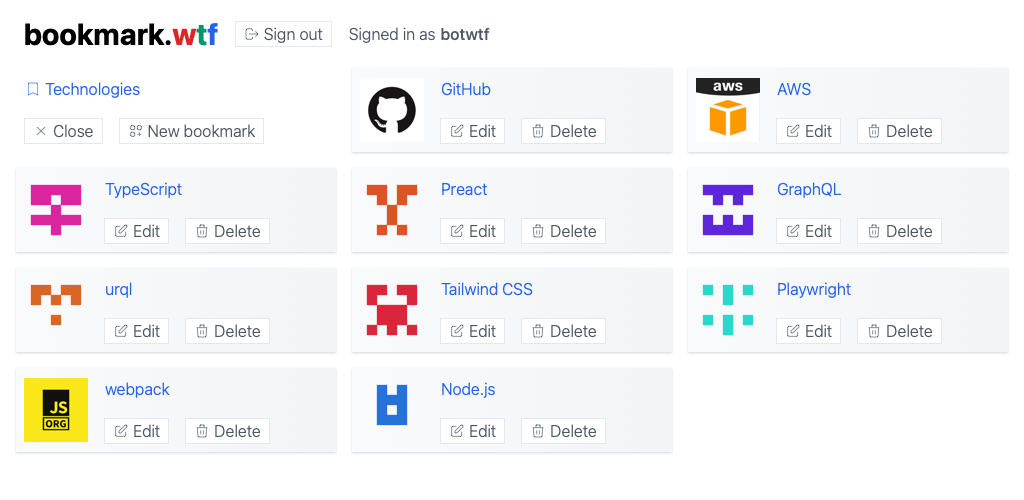
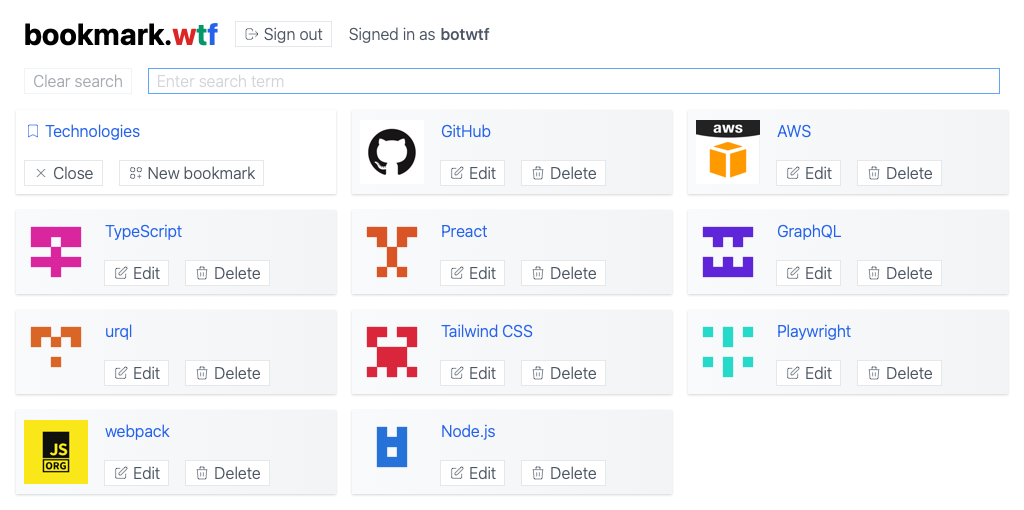
Implement bookmark search

diff --git a/src/components/authorized-page.tsx b/src/components/authorized-page.tsx
@@ -1,4 +1,4 @@
-import {JSX, h} from 'preact';
+import {Fragment, JSX, h} from 'preact';
 import {AuthorizedAuthStore} from '../hooks/use-auth-store';
 import {useGistName} from '../hooks/use-gist-name';
 import {useUserReceiver} from '../hooks/use-user-receiver';
@@ -6,6 +6,7 @@ import {AuthorizedTopbar} from './authorized-topbar';
 import {BookmarkList} from './bookmark-list';
 import {CollectionList} from './collection-list';
 import {Page} from './page';
+import {SearchForm} from './search-form';
 
 export interface AuthorizedPageProps {
   readonly authStore: AuthorizedAuthStore;
@@ -25,13 +26,17 @@ export function AuthorizedPage({authStore}: AuthorizedPageProps): JSX.Element {
       <AuthorizedTopbar authStore={authStore} userReceiver={userReceiver} />
 
       {gistName ? (
-        userReceiver.state === 'successful' && (
-          <BookmarkList
-            authStore={authStore}
-            userReceiver={userReceiver}
-            gistName={gistName}
-          />
-        )
+        <>
+          <SearchForm />
+
+          {userReceiver.state === 'successful' && (
+            <BookmarkList
+              authStore={authStore}
+              userReceiver={userReceiver}
+              gistName={gistName}
+            />
+          )}
+        </>
       ) : (
         <CollectionList authStore={authStore} />
       )}

diff --git a/src/components/bookmark-list.tsx b/src/components/bookmark-list.tsx
@@ -3,6 +3,7 @@ import {JSX, h} from 'preact';
 import {useMemo} from 'preact/hooks';
 import {AuthorizedAuthStore} from '../hooks/use-auth-store';
 import {useGistStore} from '../hooks/use-gist-store';
+import {useSearchTerm} from '../hooks/use-search-term';
 import {compareBookmarks} from '../models/compare-bookmarks';
 import {parseBookmark} from '../models/parse-bookmark';
 import {BookmarkControl} from './bookmark-control';
@@ -28,16 +29,21 @@ export function BookmarkList({
     throw gistStore.reason;
   }
 
+  const {regex} = useSearchTerm();
+
   const bookmarkFiles: readonly BookmarkFile[] = useMemo(
     () =>
       (gistStore.gist?.files ?? [])
-        .reduce((accu, {filename, text}) => {
+        .reduce((files, {filename, text}) => {
           const bookmark = parseBookmark(text);
 
-          return bookmark ? [{filename, bookmark}, ...accu] : accu;
+          return !bookmark ||
+            (regex && !regex.test(bookmark.title) && !regex.test(bookmark.url))
+            ? files
+            : [{filename, bookmark}, ...files];
         }, [] as BookmarkFile[])
         .sort((a, b) => compareBookmarks(a.bookmark, b.bookmark)),
-    [gistStore]
+    [gistStore, regex]
   );
 
   return gistStore.state === 'loading' ? (

diff --git a/src/components/search-form.tsx b/src/components/search-form.tsx
@@ -1,0 +1,35 @@
+import {JSX, h} from 'preact';
+import {useCallback, useContext} from 'preact/hooks';
+import {HistoryContext} from '../hooks/use-history';
+import {useSearchTerm} from '../hooks/use-search-term';
+import {changeSearchTerm} from '../utils/change-search-term';
+import {Button} from './button';
+import {Input} from './input';
+
+export function SearchForm(): JSX.Element {
+  const searchTerm = useSearchTerm();
+  const history = useContext(HistoryContext);
+
+  const search = useCallback((value: string) => {
+    history.replace(changeSearchTerm(value || undefined));
+  }, []);
+
+  const clearSearch = useCallback(() => {
+    history.replace(changeSearchTerm(undefined));
+  }, []);
+
+  return (
+    <div class="flex space-x-4 px-2">
+      <Button disabled={!searchTerm.value} onClick={clearSearch}>
+        Clear search
+      </Button>
+
+      <Input
+        value={searchTerm.value}
+        placeholder="Enter search term"
+        autoFocus
+        onInput={search}
+      />
+    </div>
+  );
+}

diff --git a/src/components/grid-item.tsx b/src/components/grid-item.tsx
@@ -1,5 +1,6 @@
 import {ComponentChildren, JSX, h} from 'preact';
 import {join} from '../utils/join';
+import {Text} from './text';
 
 export interface GridItemProps {
   readonly leftCol?: ComponentChildren;
@@ -13,7 +14,7 @@ export interface GridItemProps {
 export function GridItem({
   leftCol,
   row1,
-  row2,
+  row2 = <Text static>{'\u00A0'}</Text>,
   rightCol,
   background,
   highlight,
@@ -21,11 +22,11 @@ export function GridItem({
   return (
     <div
       class={join([
-        'flex space-x-4 p-2',
+        'flex space-x-4 p-2 shadow',
         background &&
           (highlight
-            ? 'bg-gradient-to-r from-gray-200 to-gray-300 shadow'
-            : 'bg-gradient-to-r from-gray-50 to-gray-100 shadow'),
+            ? 'bg-gradient-to-r from-gray-200 to-gray-300'
+            : 'bg-gradient-to-r from-gray-50 to-gray-100'),
       ])}
     >
       {leftCol && <div class="flex flex-shrink-0 items-center">{leftCol}</div>}

diff --git a/src/components/collection-item.tsx b/src/components/collection-item.tsx
@@ -5,6 +5,7 @@ import {ReadyGistsStore, UpdatingGistsStore} from '../hooks/use-gists-store';
 import {HistoryContext} from '../hooks/use-history';
 import {useTimer} from '../hooks/use-timer';
 import {useToggle} from '../hooks/use-toggle';
+import {changeGistName} from '../utils/change-gist-name';
 import {Theme} from '../utils/theme';
 import {Button} from './button';
 import {EditCollectionForm} from './edit-collection-form';
@@ -24,7 +25,7 @@ export function CollectionItem({
   const history = useContext(HistoryContext);
 
   const openCollection = useCallback(
-    () => history.push({type: 'pathname', pathname: '/' + gistName}),
+    () => history.push(changeGistName(gistName)),
     [gistName]
   );
 

diff --git a/src/components/bookmark-control.tsx b/src/components/bookmark-control.tsx
@@ -14,6 +14,7 @@ import {
 import {HistoryContext} from '../hooks/use-history';
 import {useToggle} from '../hooks/use-toggle';
 import {serializeBookmark} from '../models/serialize-bookmark';
+import {changeGistName} from '../utils/change-gist-name';
 import {createBookmarklet} from '../utils/create-bookmarklet';
 import {createRandomValue} from '../utils/create-random-value';
 import {Button} from './button';
@@ -35,7 +36,7 @@ export function BookmarkControl({
   const history = useContext(HistoryContext);
 
   const closeCollection = useCallback(
-    () => history.push({type: 'pathname', pathname: '/'}),
+    () => history.push(changeGistName(undefined)),
     []
   );
 

diff --git a/src/hooks/use-search-term.ts b/src/hooks/use-search-term.ts
@@ -1,0 +1,21 @@
+import {useContext, useMemo} from 'preact/hooks';
+import {HistoryContext} from './use-history';
+
+export interface SearchTerm {
+  readonly value: string;
+  readonly regex: RegExp | undefined;
+}
+
+export function useSearchTerm(): SearchTerm {
+  const history = useContext(HistoryContext);
+
+  return useMemo(() => {
+    const value = new URL(history.url).searchParams.get('search') ?? '';
+
+    const regex = value
+      ? new RegExp(value.split('').join('.?'), 'i')
+      : undefined;
+
+    return {value, regex};
+  }, [history]);
+}

diff --git a/src/hooks/use-history.ts b/src/hooks/use-history.ts
@@ -9,14 +9,14 @@ export interface History {
   replace(...changes: readonly [HistoryChange, ...HistoryChange[]]): void;
 }
 
-export type HistoryChange = PathnameChange | ParamChange;
+export type HistoryChange = PathnameHistoryChange | ParamHistoryChange;
 
-export interface PathnameChange {
+export interface PathnameHistoryChange {
   readonly type: 'pathname';
   readonly pathname: string;
 }
 
-export interface ParamChange {
+export interface ParamHistoryChange {
   readonly type: 'param';
   readonly key: string;
   readonly value?: string;

diff --git a/src/utils/change-gist-name.ts b/src/utils/change-gist-name.ts
@@ -1,0 +1,5 @@
+import {HistoryChange} from '../hooks/use-history';
+
+export function changeGistName(value: string | undefined): HistoryChange {
+  return {type: 'pathname', pathname: '/' + (value ?? '')};
+}

diff --git a/src/utils/change-search-term.ts b/src/utils/change-search-term.ts
@@ -1,0 +1,5 @@
+import {HistoryChange} from '../hooks/use-history';
+
+export function changeSearchTerm(value: string | undefined): HistoryChange {
+  return {type: 'param', key: 'search', value};
+}
